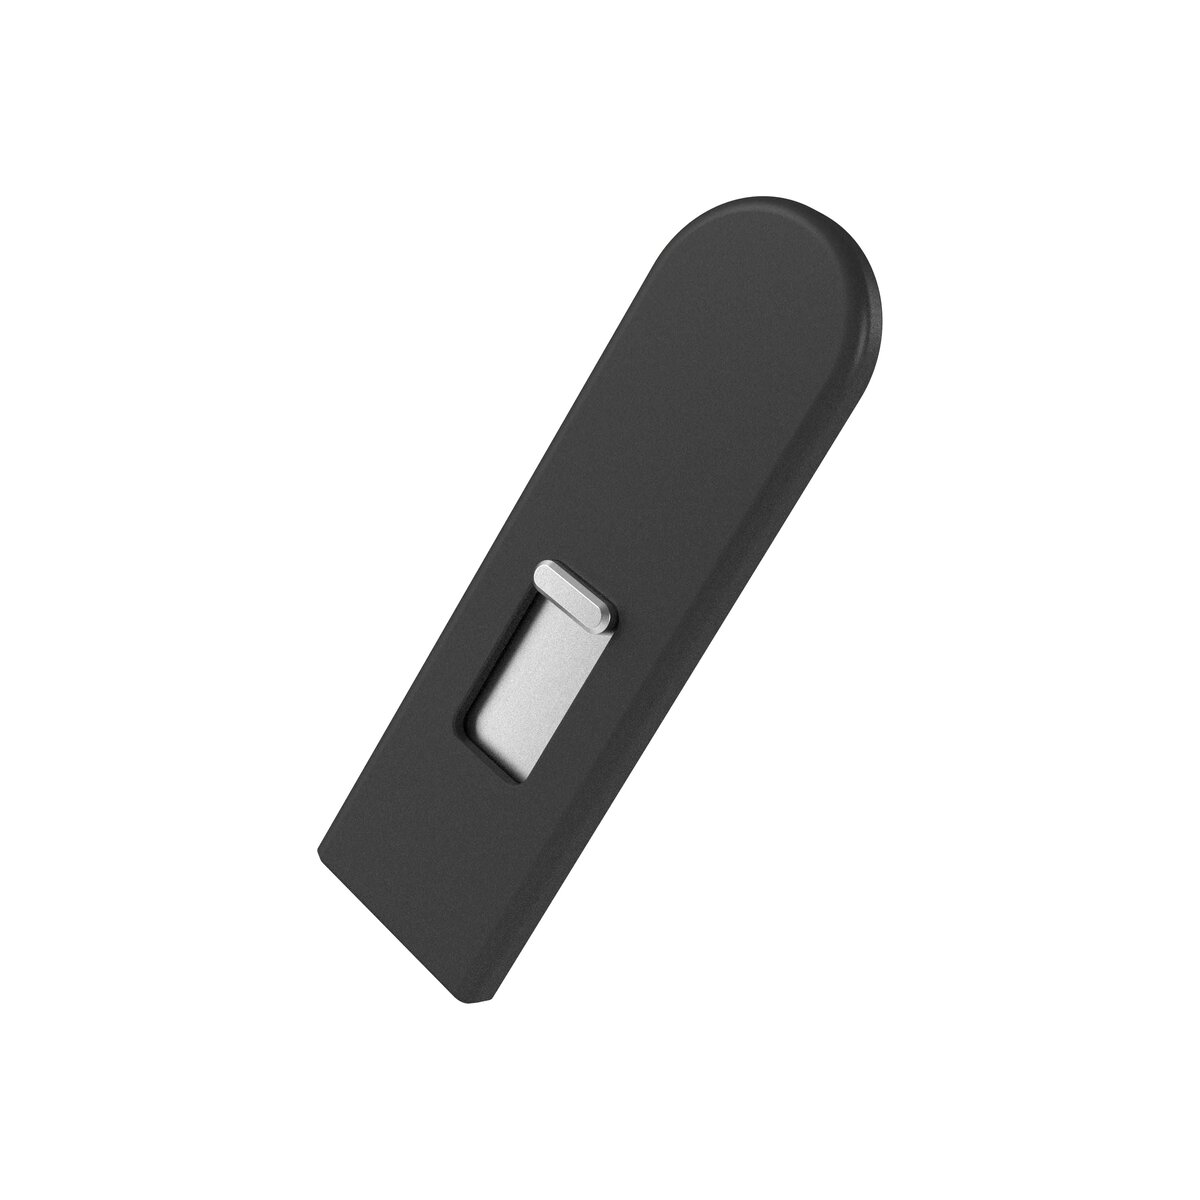
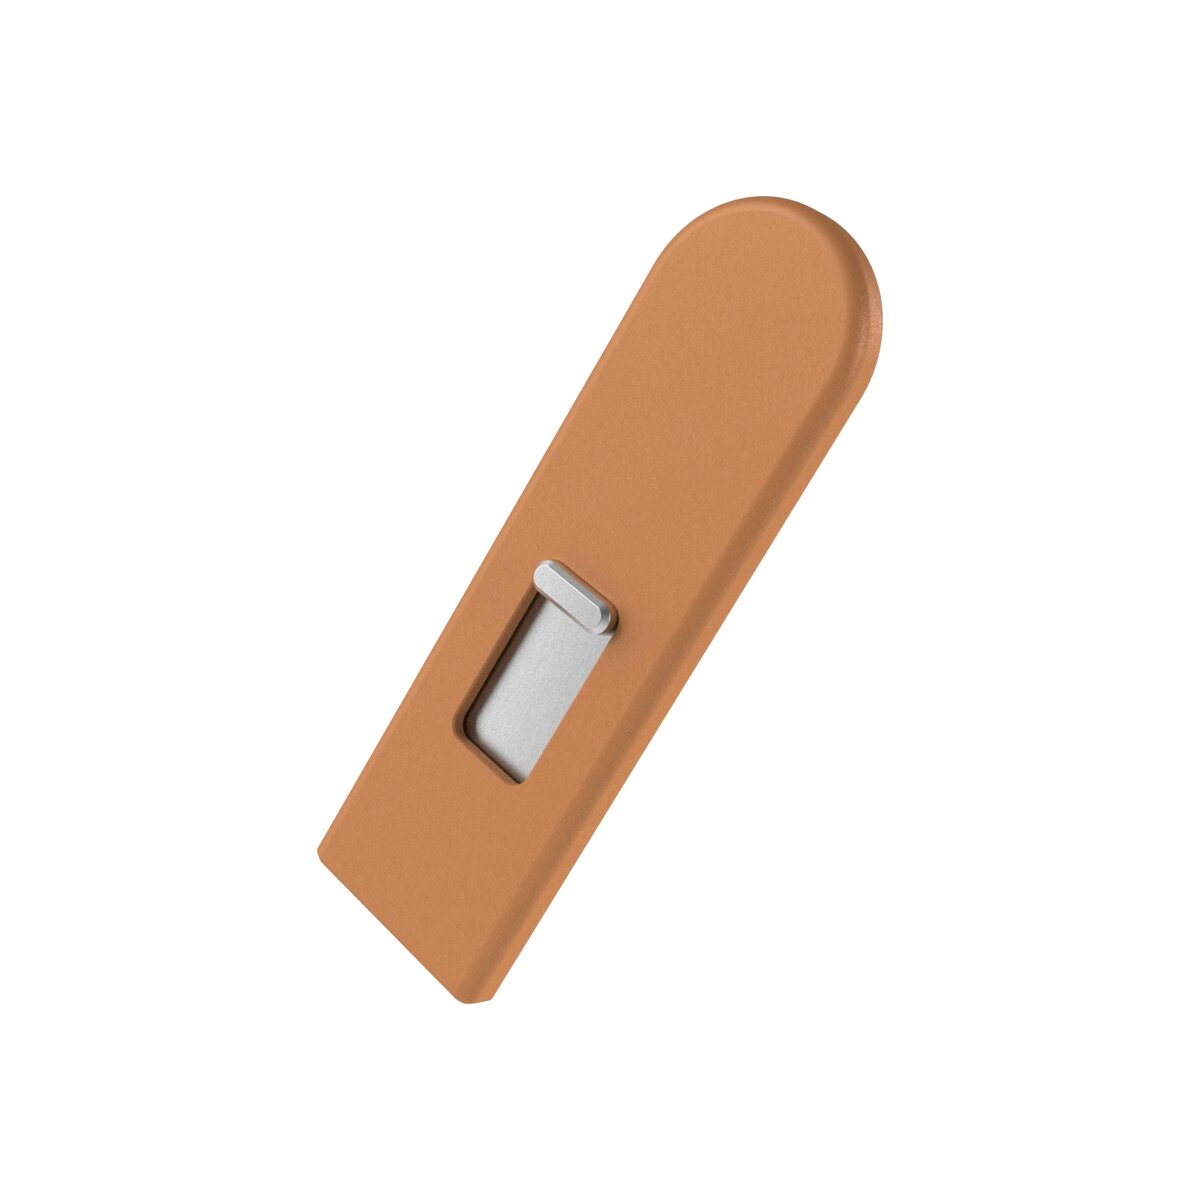
Show the orange Keen and drop the cut-off shadow under the Studio Neat photos
The Studio Neat crops took in the top of each product's soft floating
shadow and then sliced it off. They now crop to the product and flood
the leftover backdrop and shadow to white.

Amp-Thread-ID: https://ampcode.com/threads/T-01a1d946-8887-72d5-9ab7-449ed81feacb

Changed region(s): [[0.2467, 0.1542, 0.74, 0.8325]]

diff --git a/_uses/carry/studio-neat-keen.md b/_uses/carry/studio-neat-keen.md
@@ -1,9 +1,9 @@
 ---
 title: "Studio Neat Keen"
-link: "https://www.studioneat.com/products/keen"
+link: "https://www.studioneat.com/products/keen?variant=48579435299093"
 image:
   base: "uses/studio-neat-keen"
-  alt: "Studio Neat Keen utility knife, closed"
+  alt: "Studio Neat Keen utility knife in orange, closed"
 ---
 
-A gorgeous everyday knife. I backed it on Kickstarter.
+A gorgeous everyday knife, in orange. I backed it on Kickstarter.
